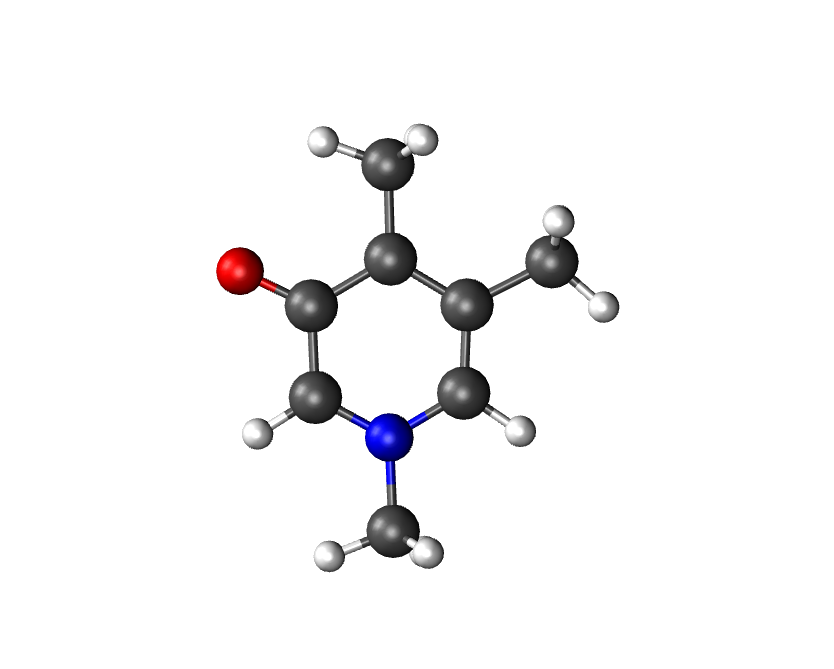
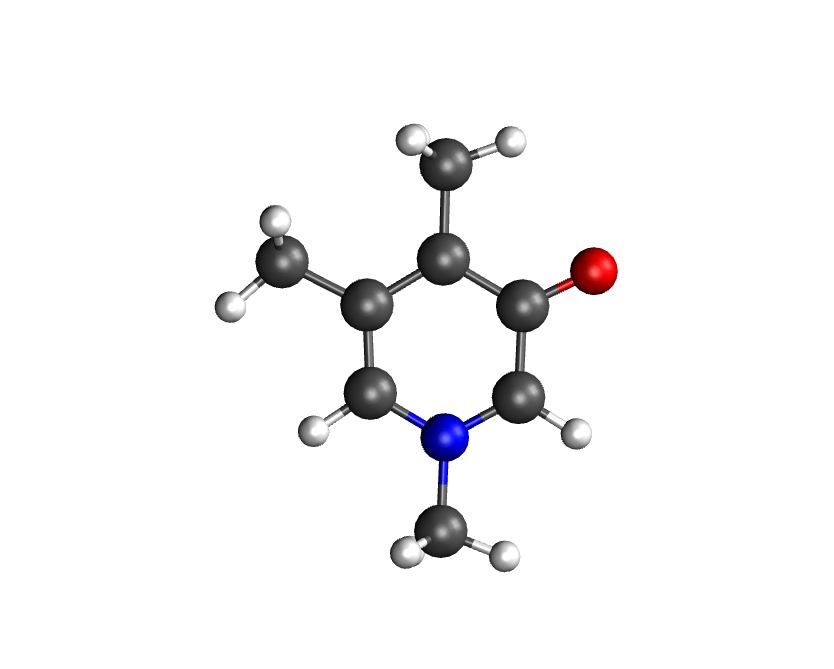
ENH: typos in gval tutorial

Changed region(s): [[0.2494, 0.1794, 0.7482, 0.867]]

diff --git a/doc/tutorials/EPRspectrum/tutorial_EPR.rst b/doc/tutorials/EPRspectrum/tutorial_EPR.rst
@@ -189,10 +189,10 @@ left, candidate 2 on the right):
 
     <div style="display: flex; justify-content: center; gap: 10px;">
         <div style="display: flex; justify-content: right;">
-            <img src="../../_static/OxygenCharged.png" width="45%" />
+            <img src="../../_static/OxygenCharged.png" width="60%" />
         </div>
         <div style="display: flex; justify-content: left;">
-            <img src="../../_static/OxygenNeutral.png" width="45%" />
+            <img src="../../_static/OxygenNeutral.png" width="60%" />
         </div>
     </div>
 
@@ -207,9 +207,9 @@ the molecule with each radical, run
 .. code-block:: bash
 
     cd 1-OxygenCharged
-    $(myutils gval_workflow -path) -c 1 -f 'g[0, 4]d2' -v
+    $(myutils gval_workflow -path) -c 1 -f 'g0,4d2' -v
     cd ../2-OxygenNeutral
-    $(myutils gval_workflow -path) -c 0 -f 'g[0, 4, 6]d2' -v
+    $(myutils gval_workflow -path) -c 0 -f 'g0,4,6d2' -v
 
 .. note::
 
